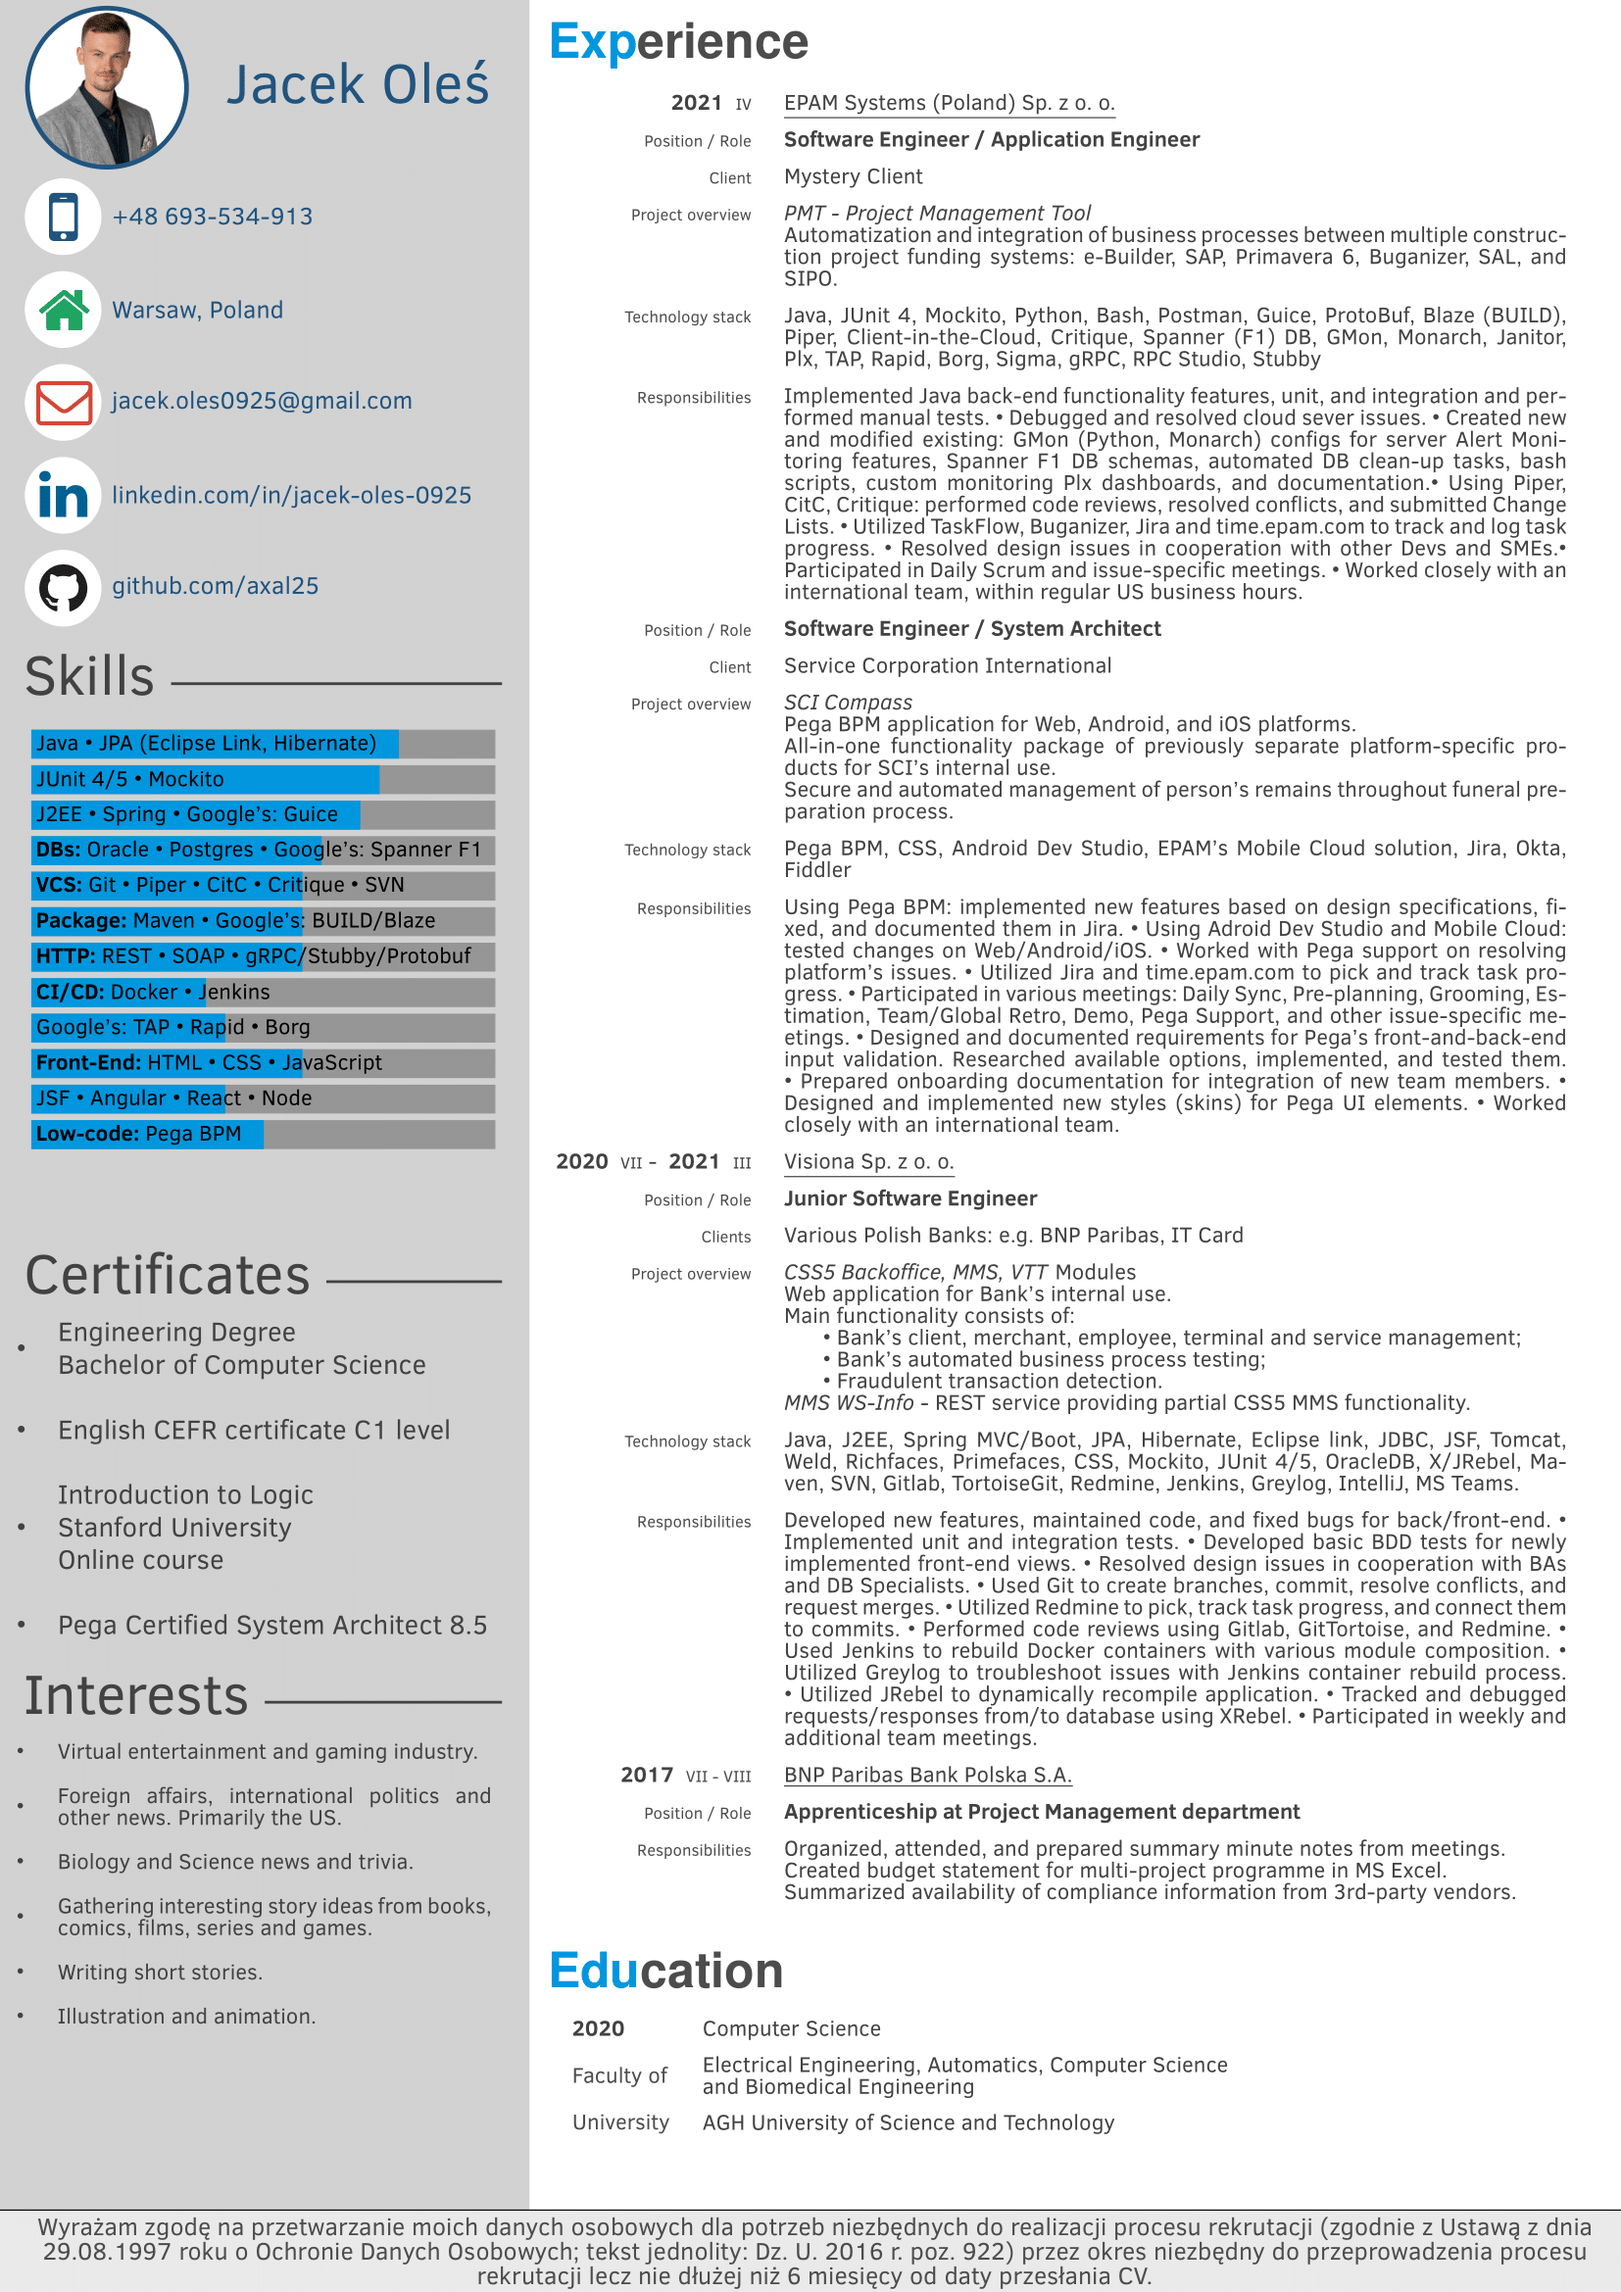
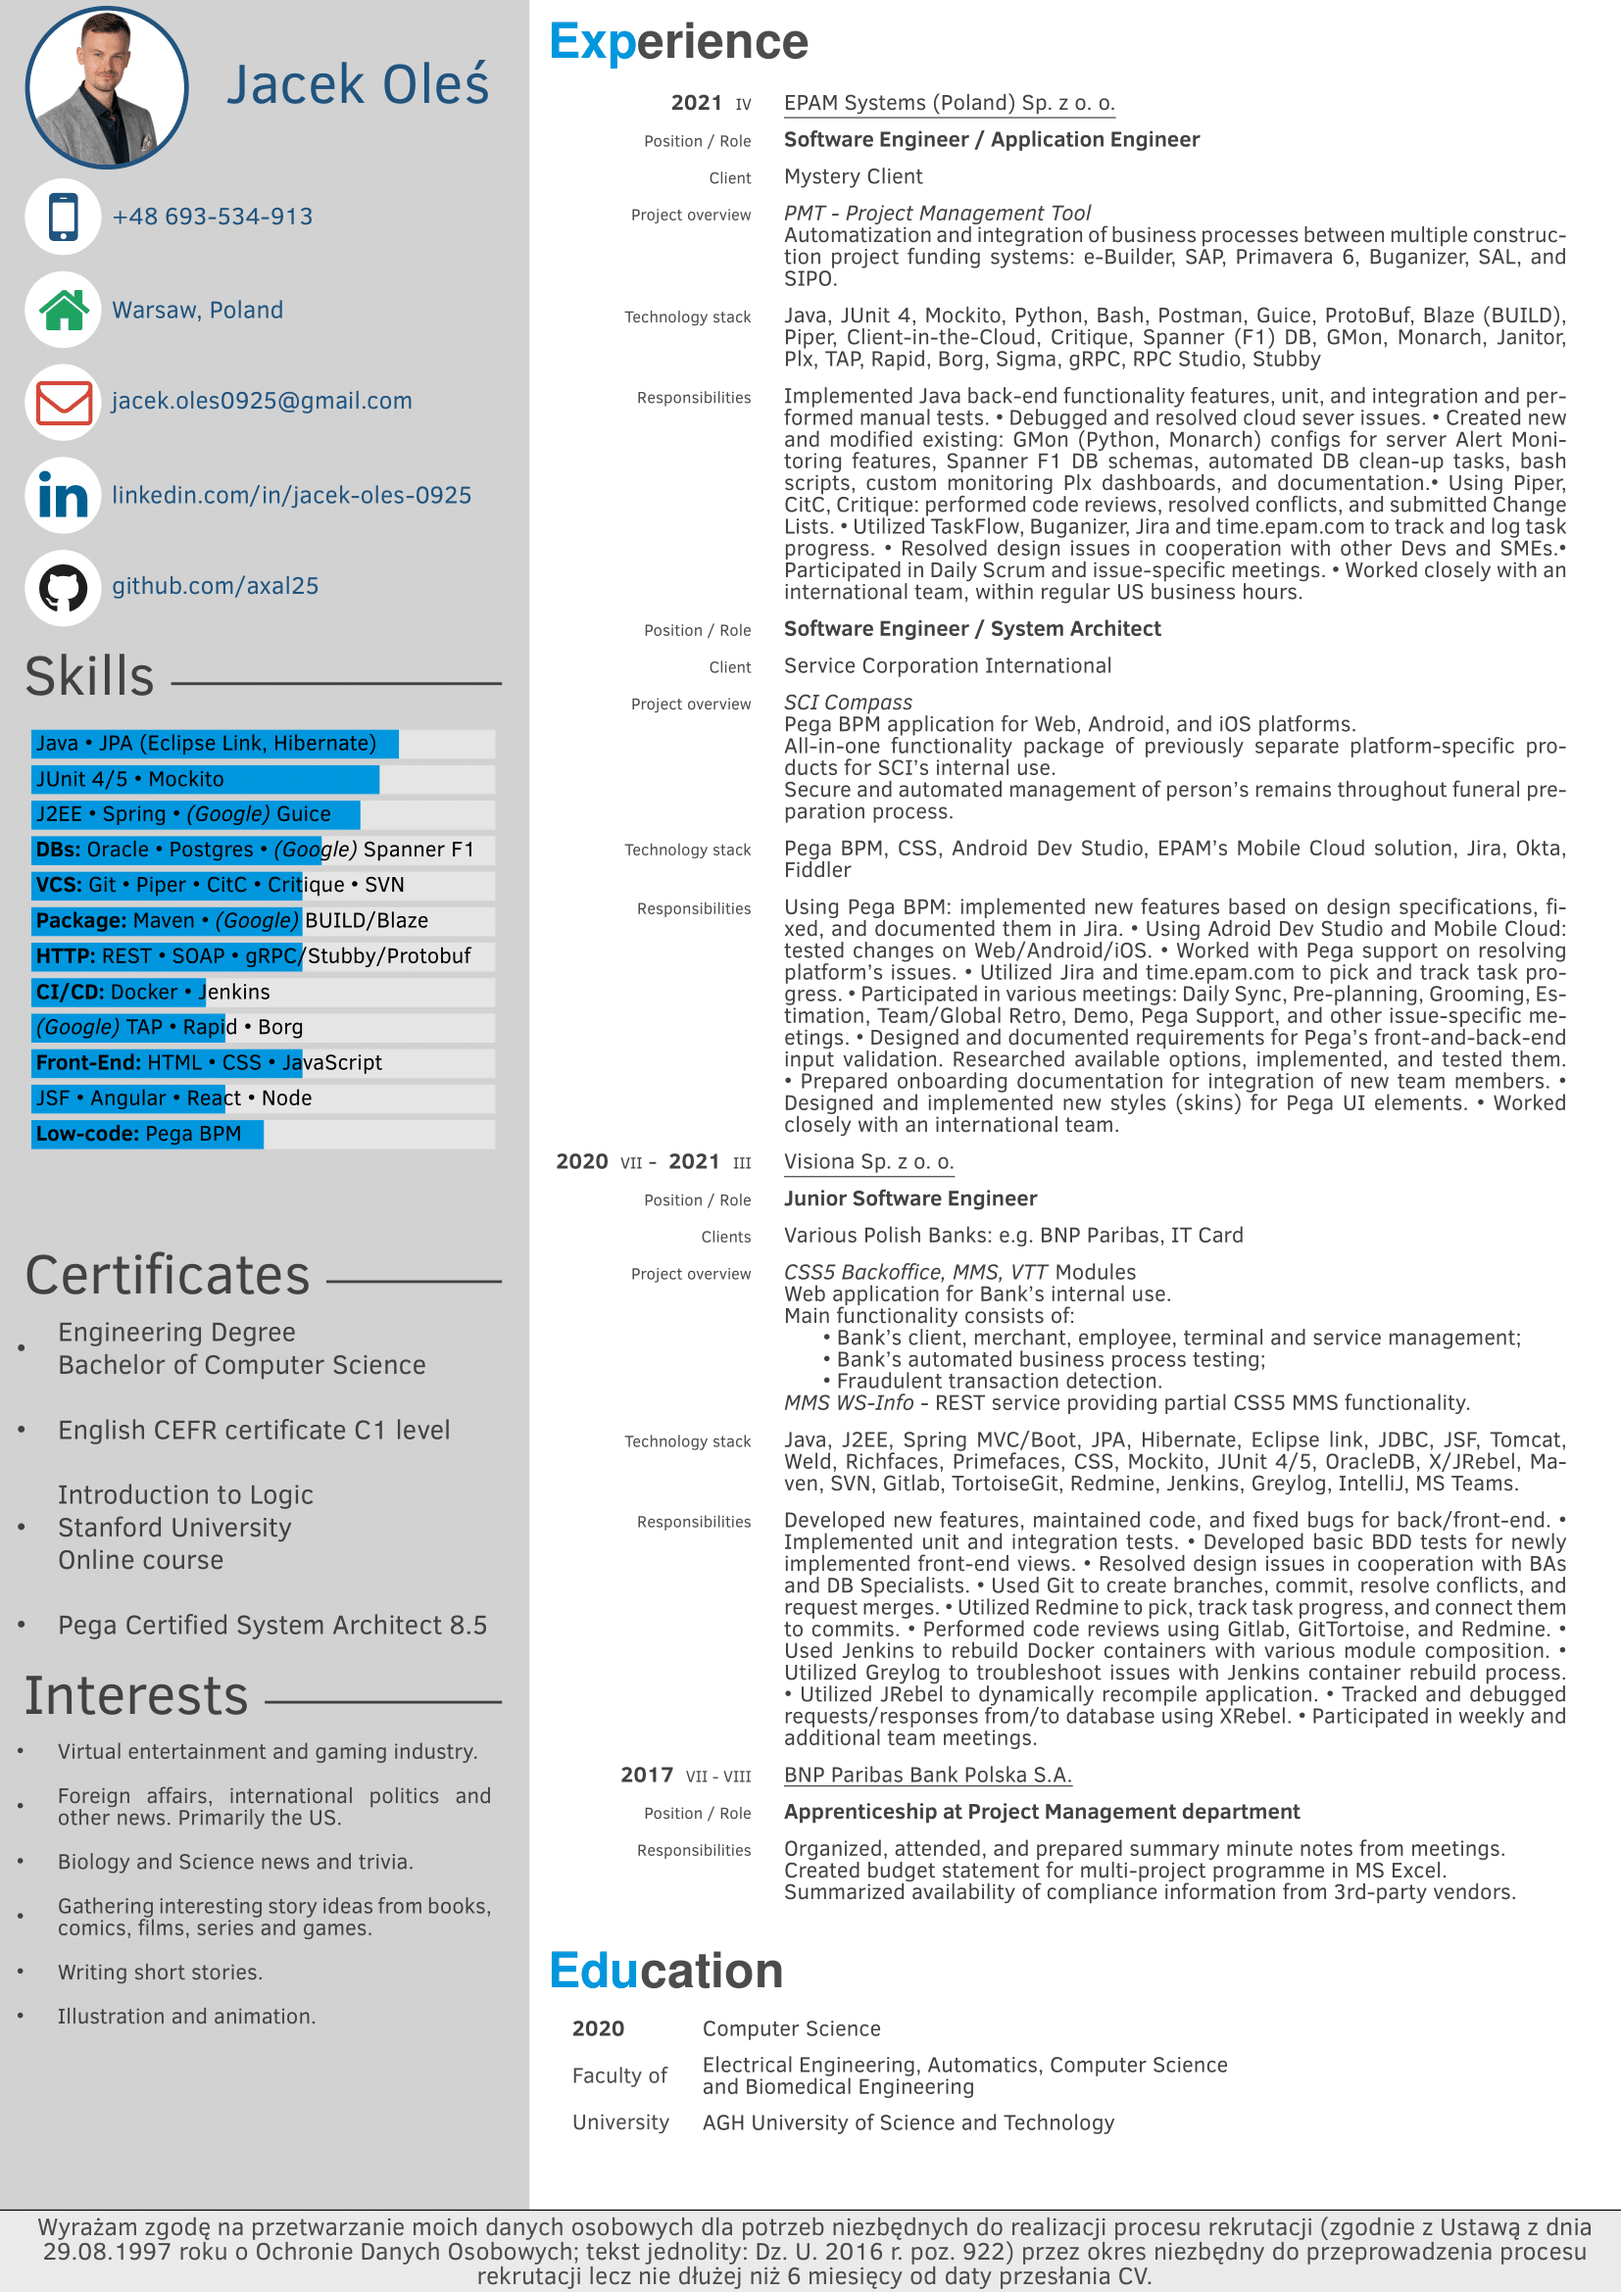
improved skill section contrast

Changed region(s): [[0.0308, 0.3121, 0.3083, 0.4994]]

diff --git a/JacekOlesCV_ENG_V2023.tex b/JacekOlesCV_ENG_V2023.tex
@@ -76,32 +76,17 @@
 	\drawSideBarSection{0.3cm}{7.85cm}{Skills}
 	
 	\drawSkills{0.34cm}{9.0cm}{%
-% 
-	 %    {C \textbullet{} C++ \textbullet{} Node.JS \textbullet{} Matlab \textbullet{} LaTeX \textbullet{} JavaFX \textbullet{} Ada /1.0},%
-		% {OS: Unix \textbullet{} Windows \textbullet{} Mac \textbullet{} Android \textbullet{} iOS /1.25},%
-	 %    {Swift (iOS) \textbullet{} Scala \textbullet{} Erlang \textbullet{} Prolog \textbullet{} Haskell /1.5},%
-	 %    {  /1.75},%
-	 %    {CI\slash CD: Docker \textbullet{} Jenkins \textbullet{} Google's: TAP \textbullet{} Rapid \textbullet{} Borg /2},%
-	 %    {HTTP: REST \textbullet{} SOAP \textbullet{} gRPC\slash Stubby\slash Protobuf /2.25},%
-	 %    {Package: Maven \textbullet{} Google's: BUILD\slash Blaze \textbullet{}  /2.5},%
-	 %    {VCS: Git \textbullet{} Piper \textbullet{} CitC \textbullet{} Critique \textbullet{} SVN /2.75},%
-		% {Front-End: JSF \textbullet{} Angular \textbullet{} ReactJS \textbullet{} HTML \textbullet{} CSS \textbullet{} JavaScript /3.0},%
-	 %    {Low-code: Pega BPM /3.5},%
-	 %    {DBs: Oracle \textbullet{} Postgres \textbullet{} Google's: Spanner F1 /3.75},%
-		% {J2EE \textbullet{} Spring \textbullet{} Google's: Guice /4.0},%
-	 %    {Servers: Tomcat \textbullet{} JBoss Wildfly /4.25},%
-		% {Java \textbullet{} JPA (Eclipse Link, Hibernate) \textbullet{} JUnit 4\slash 5 \textbullet{} Mockito /4.75}%
-% 
+% Python, C, C++, Node JS, Matlab, LaTeX, JavaFX, Ada, Unit, Windows, Mac, Android, iOS, Swift, Scala, Erlang, Prolog, Haskell, Docker, Jenkins, TAP, Rapid, Borg, HTTP, RESt, SOAP, gRPC/Stubby/Protobuf, Maven, BUILD/Blaze, Git, Piper, CitC, Critique, SVN, JSF, Angular, ReactJS, HTML, CSS, Javascript, Pega BPM, OracleDB, PostgreSQL, Spanner F1 DB, Spring, Guice, Tomcat, JBoss Widlfly, Java, JPA (Eclipse Link, Hibernate, Junit 4/5, Mockito
 	    {\textbf{Low-code:} Pega BPM /3.0},%
 		{JSF \textbullet{} Angular \textbullet{} React \textbullet{} Node /2.5},%
 		{\textbf{Front-End:} HTML \textbullet{} CSS \textbullet{} JavaScript /3.5},%
-	    {Google's: TAP \textbullet{} Rapid \textbullet{} Borg /2.5},%
+	    {\textit{(Google)} TAP \textbullet{} Rapid \textbullet{} Borg /2.5},%
 	    {\textbf{CI\slash CD:} Docker \textbullet{} Jenkins /2.25},%
 	    {\textbf{HTTP:} REST \textbullet{} SOAP \textbullet{} gRPC\slash Stubby\slash Protobuf /3.5},%
-	    {\textbf{Package:} Maven \textbullet{} Google's: BUILD\slash Blaze /3.5},%
+	    {\textbf{Package:} Maven \textbullet{} \textit{(Google)} BUILD\slash Blaze /3.5},%
 	    {\textbf{VCS:} Git \textbullet{} Piper \textbullet{} CitC \textbullet{} Critique \textbullet{} SVN /3.5},%
-	    {\textbf{DBs:} Oracle \textbullet{} Postgres \textbullet{} Google's: Spanner F1 /3.75},%
-		{J2EE \textbullet{} Spring \textbullet{} Google's: Guice /4.25},%
+	    {\textbf{DBs:} Oracle \textbullet{} Postgres \textbullet{} \textit{(Google)} Spanner F1 /3.75},%
+		{J2EE \textbullet{} Spring \textbullet{} \textit{(Google)} Guice /4.25},%
 		{JUnit 4\slash 5 \textbullet{} Mockito /4.5},%
 		{Java \textbullet{} JPA (Eclipse Link, Hibernate) /4.75}%
 	}
@@ -375,7 +360,7 @@
 }
 
 \newcommand{\drawSkills}[3]{
-    \definecolor{skillBarBgColor}{RGB}{150, 150, 150}
+    \definecolor{skillBarBgColor}{RGB}{230, 230, 230}
     % \definecolor{colorSectionBlue}{RGB}{0, 150, 222}
     \definecolor{skillBarLvlColor}{RGB}{0, 150, 222}
     \newlength\skillBarHeight
@@ -395,7 +380,6 @@
     		\foreach [count=\i] \x/\y in {#3}
     		{
     		    \pgfmathsetlength\currentSkillBarVPos{\i*\skillBarWithMarginHeight}
-    		    
     			\draw[fill=skillBarBgColor,skillBarBgColor] (0,\currentSkillBarVPos) rectangle (6,\currentSkillBarVPos + \skillBarHeight);
     			\draw[fill=skillBarLvlColor,skillBarLvlColor](0,\currentSkillBarVPos) rectangle (\y,\currentSkillBarVPos + \skillBarHeight);
     			\node [right] at (\skillBarTextXOffset,\currentSkillBarVPos + \skillBarTextVOffset) {\scriptsize\x};
